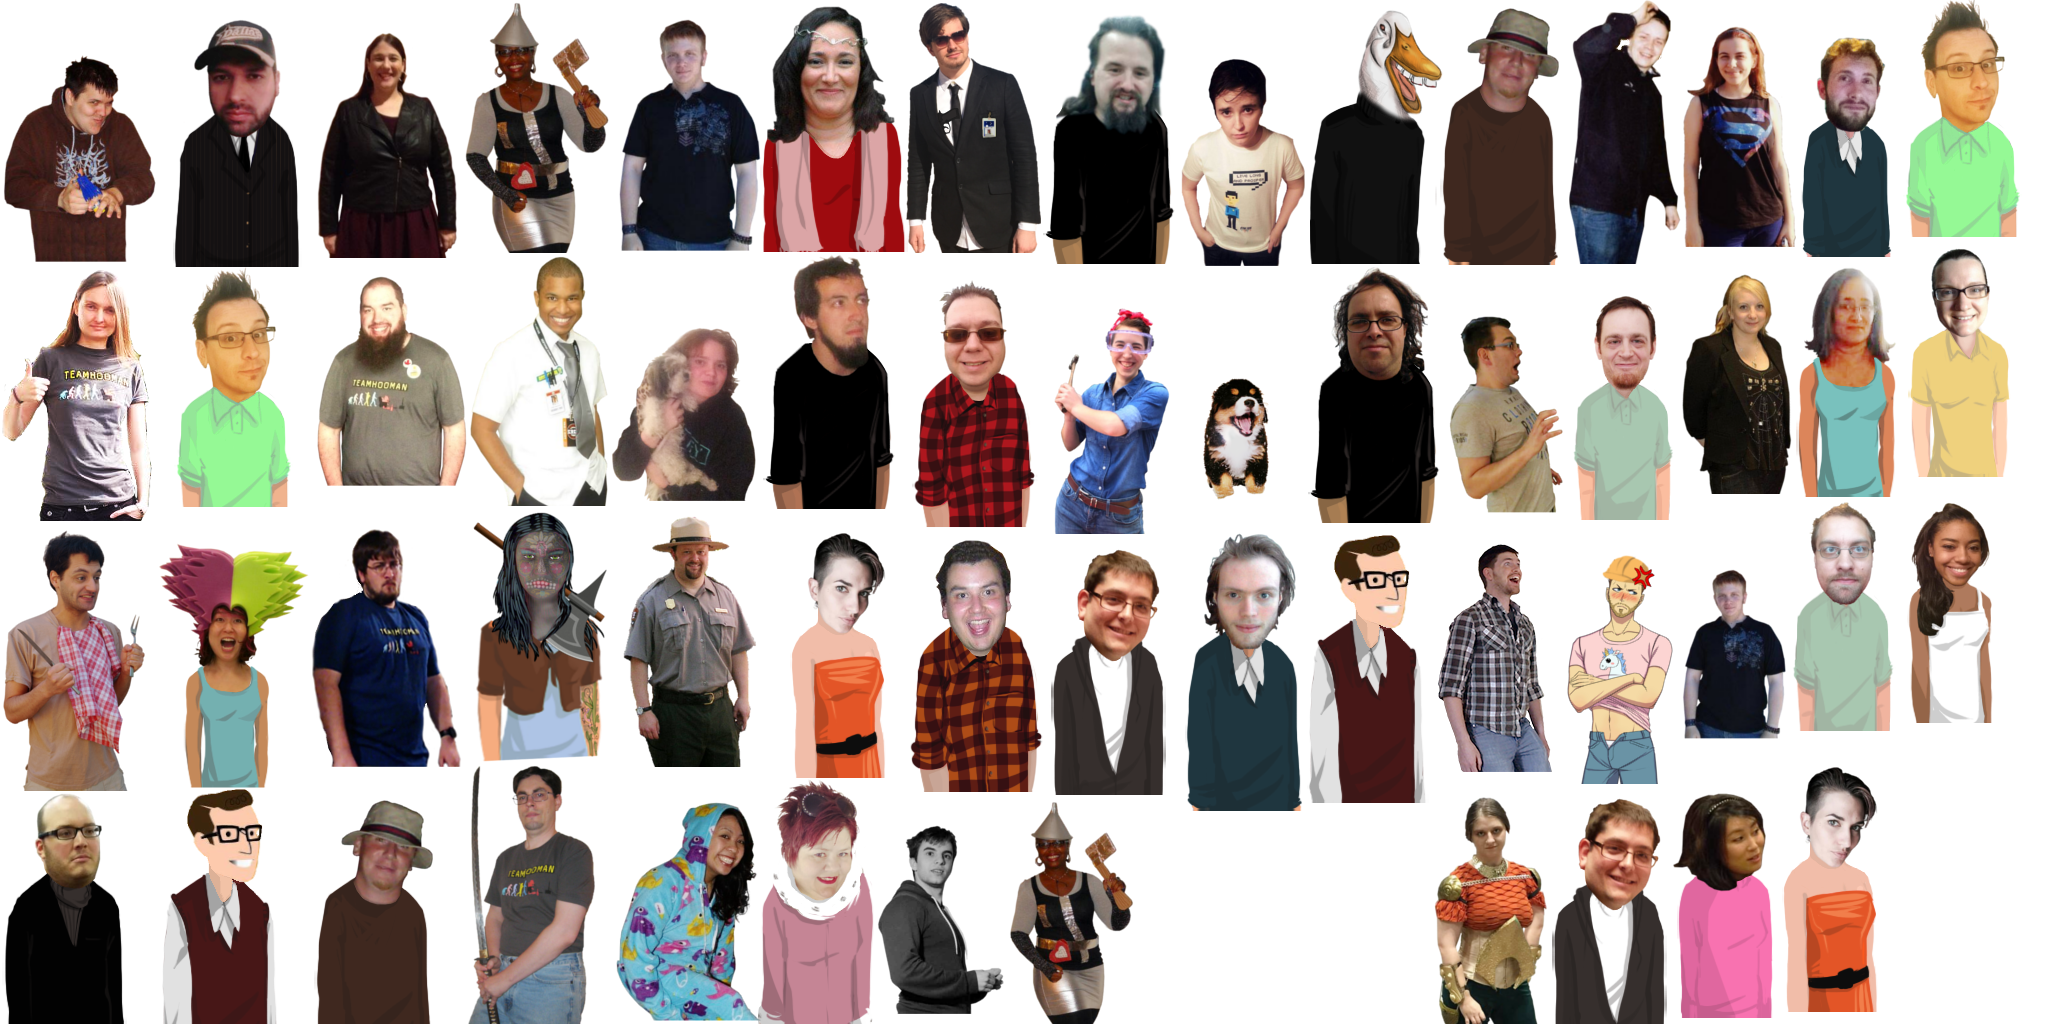
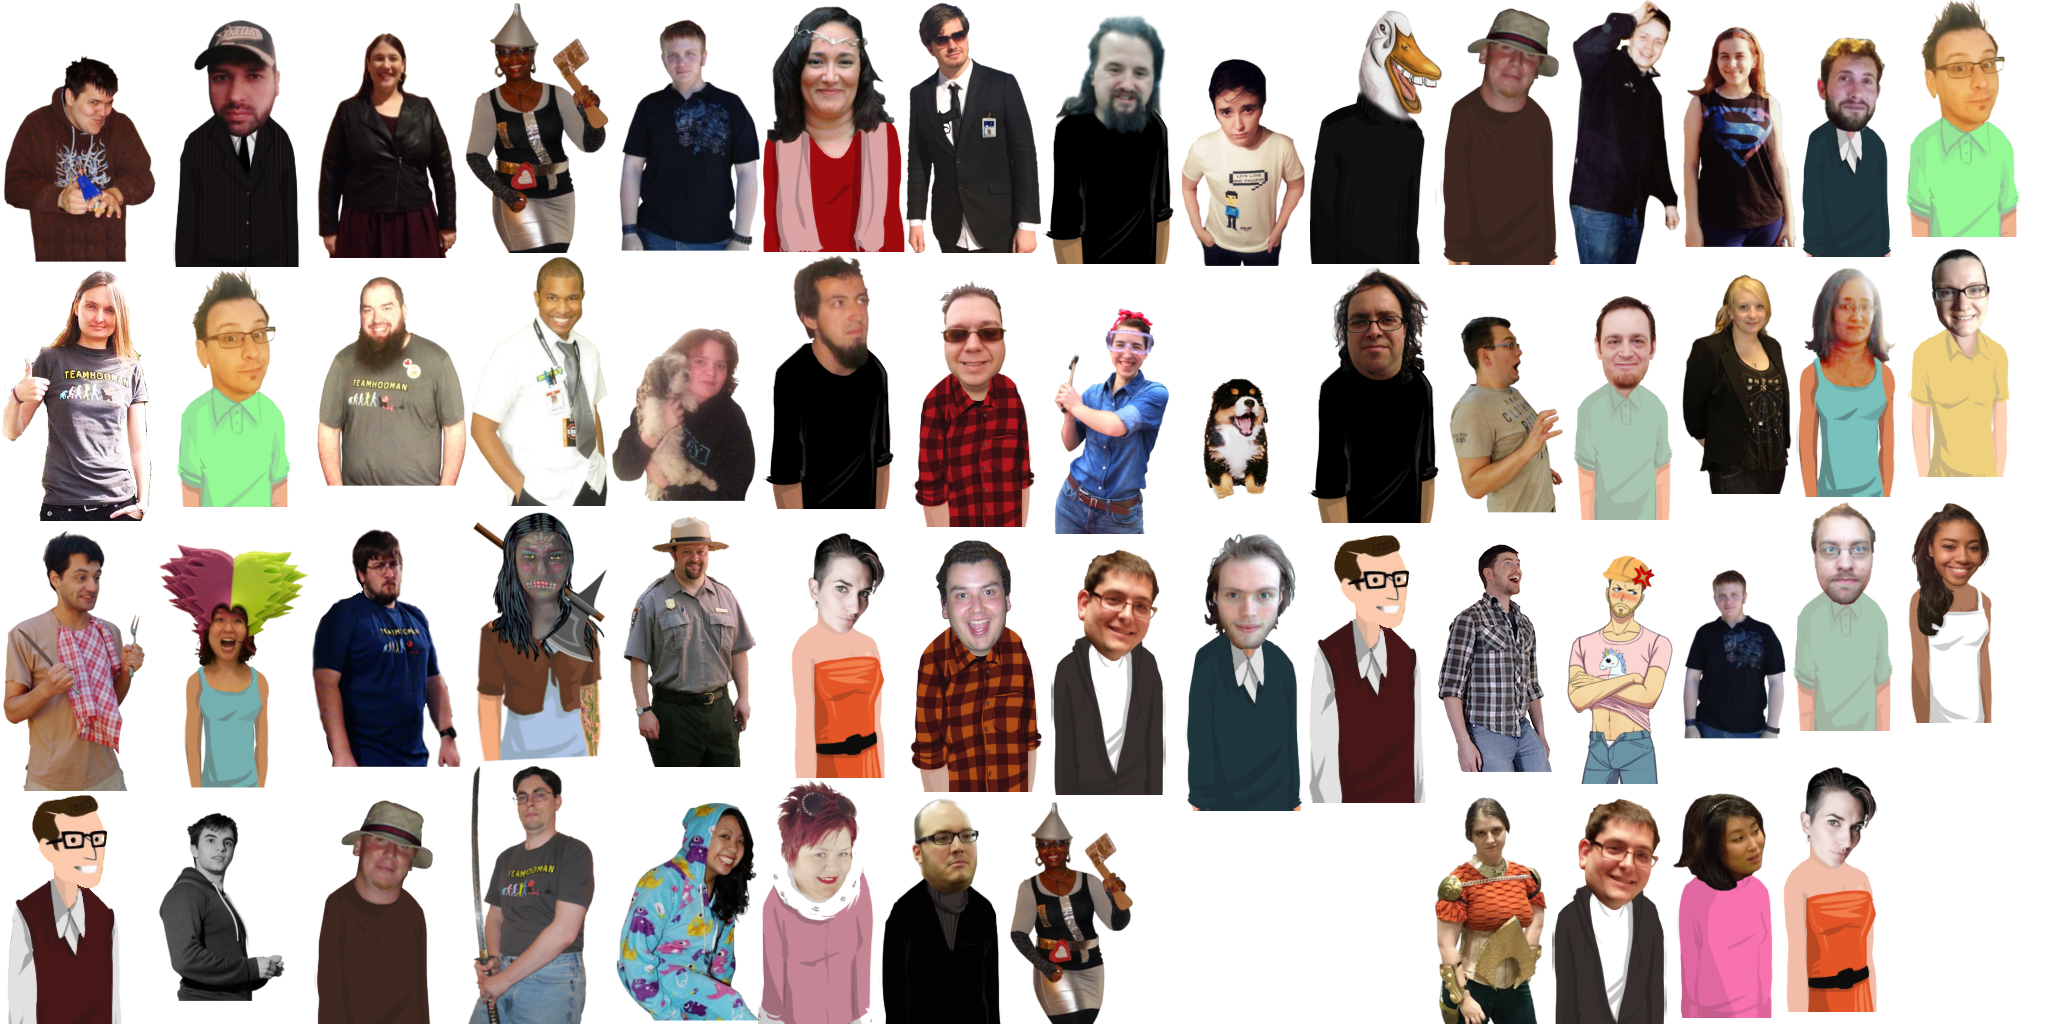
updated patch for Cook, Serve, Delicious! version 3.20

Changed region(s): [[0.0, 0.75, 0.1562, 1.0], [0.4062, 0.7812, 0.5, 1.0]]

diff --git a/src/cook_serve_hoomans.h b/src/cook_serve_hoomans.h
@@ -10,8 +10,8 @@
 #	define CSH_GAME_ARCHIVE "game.unx"
 #endif
 
-#define CSH_CATERING_INDEX 16
-#define CSH_ICONS_INDEX    41
-#define CSH_HOOMANS_INDEX  46
+#define CSH_CATERING_INDEX 17
+#define CSH_ICONS_INDEX    42
+#define CSH_HOOMANS_INDEX  47
 
 #endif
